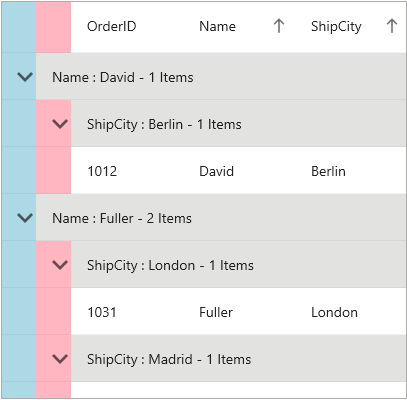
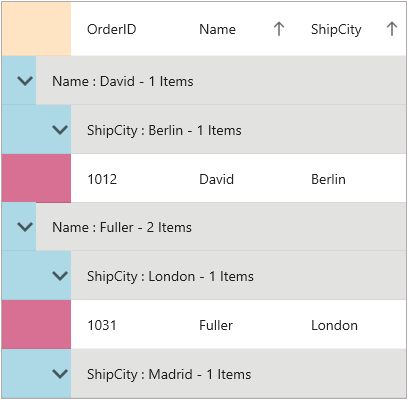
Code updated regarding updating IndentCell image and code snippet.

diff --git a/MAUI/DataGrid/Grouping.md b/MAUI/DataGrid/Grouping.md
@@ -123,15 +123,15 @@ The following code snippet shows how to apply a background color to the indent c
 {% highlight c# %}
 public class CellStyleConverter : IValueConverter
 {
-    public object Convert(object value, Type targetType, object parameter, CultureInfo culture)
+    object IValueConverter.Convert(object value, Type targetType, object parameter, CultureInfo info)
     {
-        var columnIndex = (value as DataGridIndentCell).DataColumn.ColumnIndex;
-        if (columnIndex == 0)
+        var rowType = ((value as GridIndentCell)?.Parent as DataGridRow)?.DataRow?.RowType.ToString();
+        if (rowType == "HeaderRow")
+            return Colors.Bisque;
+        else if (rowType == "CaptionCoveredRow")
             return Colors.LightBlue;
-
-        if (columnIndex == 1)
-            return Colors.LightPink;
-        return Colors.LemonChiffon;
+        else
+            return Colors.PaleVioletRed;
     }
     public object ConvertBack(object value, Type targetType, object parameter, CultureInfo culture)
     {
